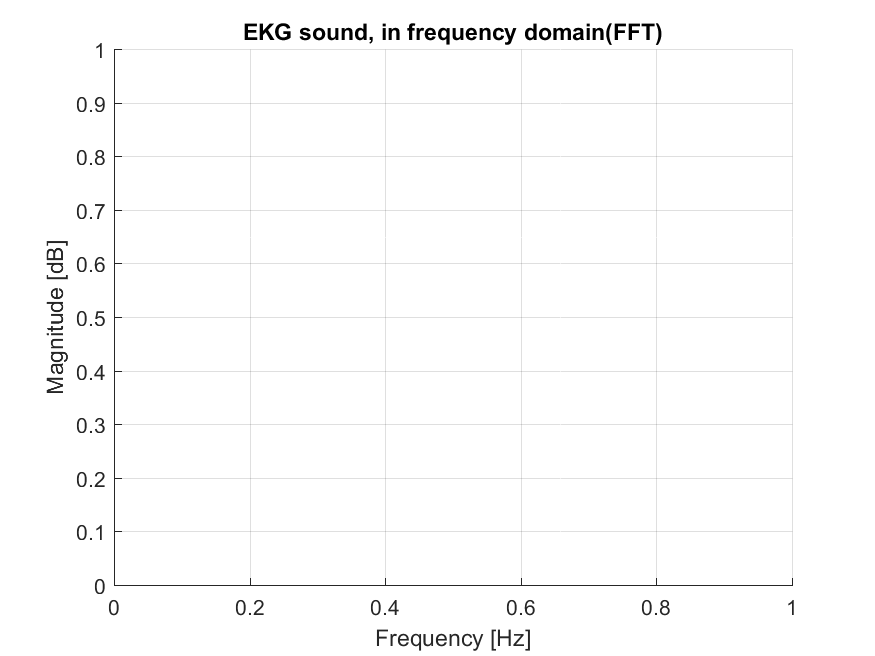
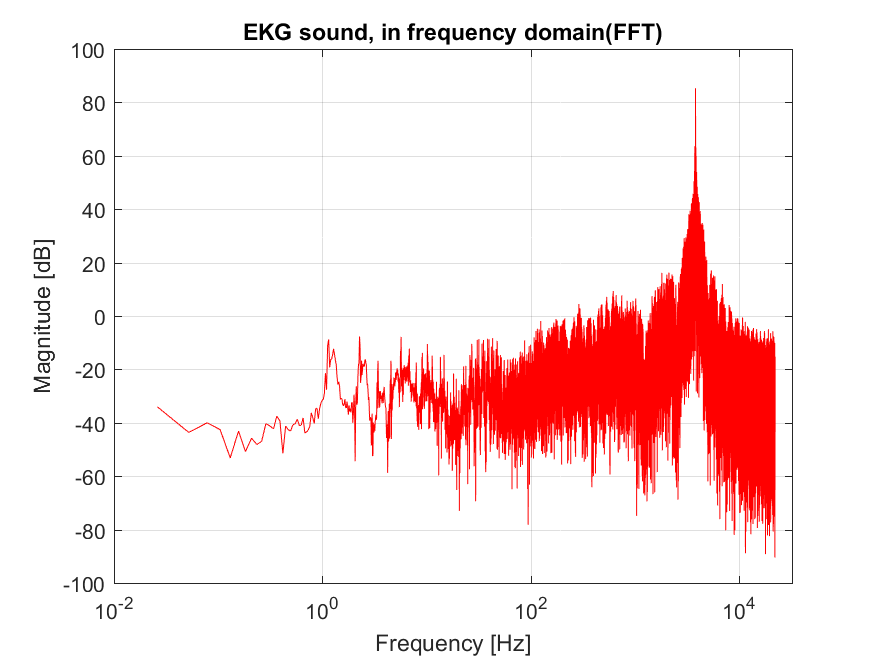
EKG virker nu

diff --git a/code/ekg.m b/code/ekg.m
@@ -26,12 +26,13 @@ frequency_samples = [0:Fs/N:Fs-(Fs/N)];
 YdB = 20*log10(abs(Y));
 % Plot of discrete fourier transform
 figure(2);
-semilogx(frequency_samples((N/2):1), YdB((N/2):1), 'r');
+semilogx(frequency_samples(1:N/2), YdB(1:N/2), 'r');
 hold on
 grid on
 title([figureTitle, ' sound, in frequency domain(FFT)']);
 xlabel('Frequency [Hz]');
 ylabel('Magnitude [dB]');
+xlim([10^-2 Fs/2+10000]);
 
 [YMax, NMax] = max(YdB(N/2:1));
 FMax = frequency_samples(NMax);
@@ -41,7 +42,7 @@ YSmooth = smooth(YdB);
 
 % Mix of smooth and discrete fourier transform
 figure(3);
-semilogx(frequency_samples(N/2:1), YSmooth(N/2:1), 'r');
+semilogx(frequency_samples(1:N/2), YSmooth(1:N/2), 'r');
 %semilogx(frequency_samples(N/2:1), YdB(N/2:1), 'r');
 hold on
 title([figureTitle, ' sound, in frequency domain, Smooth']);
